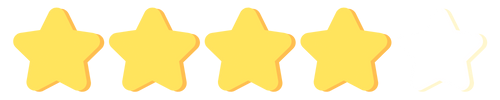
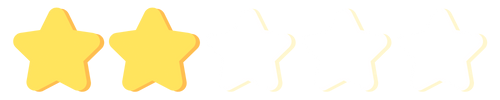
main_test success

Changed region(s): [[0.39, 0.06, 0.81, 0.93]]

diff --git a/main_test.py b/main_test.py
@@ -14,9 +14,16 @@ pygame.init()
 pygame.display.set_caption("main_test")
 screen = pygame.display.set_mode((1280, 800))
 #game variable               
-t1 = [0, 4.4, 9.1, 11.3, 13.7, 16, 18.3, 22.9, 25.1, 28.8, 31.1, 37.9, 38.9, 41.5, 46.1, 47.3, 48.5, 51.1, 52.9, 55.2, 57.6, 59.8, 64.56, 66.8, 70.35, 71.4, 72.6, 73.8, 76, 78.5, 82.9, 84.2, 85.5, 86.6, 90, 94, 111]
-t2 = [0, 3.2, 6.5, 9.8, 13.1, 16.32, 17.9, 19.6, 21.2, 24.5, 26.14, 29.4, 31, 32.6, 34.3, 37.65, 39.25, 42.55, 44.2, 47.45, 50.74, 52.3, 54.7, 57.23, 58.9, 60.5, 62.2, 63.7, 67, 68.6, 70.26, 71.98, 73.56, 75.2, 76.7, 80.2, 92]
-t3 = [0, 10.77, 12.15, 13.35, 14.86, 16.12, 17.5, 19.9, 22.84, 24.11, 25.28, 26.8, 28.02, 29.266, 30.783, 32.19, 33.498, 34.856, 36.157, 37.525, 40.746, 42.771, 44.132, 45.4, 46.4, 48.172, 49.47, 50.7, 52.03, 53.429, 54.8, 57.45, 58.8, 60.043, 61.37, 64.78, 78]
+t1 = [0, 4.4, 9.1, 11.3, 13.7, 16, 18.3, 22.9, 25.1, 28.8, 31.1, 37.9, 38.9, 41.5, 46.1, 47.3, 48.5, 51.1, 52.9, 55.2, 57.6, 59.8, 64.56, 66.8, 70.35, 71.4, 72.6, 73.8, 76, 78.5, 82.9, 84.2, 85.5, 86.6, 90, 94, 108]
+t2 = [0, 3.2, 6.5, 9.8, 13.1, 16.32, 17.9, 19.6, 21.2, 24.5, 26.14, 29.4, 31, 32.6, 34.3, 37.65, 39.25, 42.55, 44.2, 47.45, 50.74, 52.3, 54.7, 57.23, 58.9, 60.5, 62.2, 63.7, 67, 68.6, 70.26, 71.98, 73.56, 75.2, 76.7, 80.2, 89]
+t3 = [0, 10.77, 12.15, 13.35, 14.86, 16.12, 17.5, 19.9, 22.84, 24.11, 25.28, 26.8, 28.02, 29.266, 30.783, 32.19, 33.498, 34.856, 36.157, 37.525, 40.746, 42.771, 44.132, 45.4, 46.4, 48.172, 49.47, 50.7, 52.03, 53.429, 54.8, 57.45, 58.8, 60.043, 61.37, 64.78, 75]
+c = 'c'
+d = 'd'
+n = 'n'
+b1 = [n, c, d, c, d, d, c, d, c, d, d, c, c, d, d, d, d, c, c, c, d, c, d, c, d, d, d, c, c, d, c, c, d, d, c, c]
+b2 = [n, d, c, d, c, d, d, c, c, d, c, d, c, d, c, d, d, c, c, c, d, c, d, c, d, d, d, c, c, d, c, c, d, d, c, c]
+b3 = [n, c, c, c, d, d, d, c, d, d, d, d, c, d, c, d, d, c, d, d, c, c, d, d, d, c, d, d, c, d, c, d, c, d, c, d]
+
 #image load
 gamePageBg=pygame.image.load(gamePagePath+"/game_page.png")
 dog = pygame.image.load(gamePagePath+"/dog.png")
@@ -60,54 +67,48 @@ def _showCloud(x,y):
         #text=font.render(str(x),True,(0,0,0))
         #screen.blit(text, (400,300))
 
-def _callCat(n,t,countPlaySFX,presentTicks):
+def _call(n,b,t,countPlaySFX,presentTicks):
     count = 0
-    if presentTicks >= t and countPlaySFX<n:
+    if presentTicks >= t and countPlaySFX<n and b == 'c':
         catSound.play()
-        count+=1   
-    return count
-
-
-def _callDog(n,t,countPlaySFX,presentTicks):
-    count = 0
-    if presentTicks >= t and countPlaySFX<n:
+        count+=1
+    elif presentTicks >= t and countPlaySFX<n and b == 'd':
         dogSound.play()
         count+=1   
     return count
 
-def _checkCat(countPlaySFX,recentSoundTime,key,presentTicks,a):
+def _check(countPlaySFX,b,recentSoundTime,key,presentTicks,a):
     score = 0
-    if presentTicks>=recentSoundTime and presentTicks<=recentSoundTime+1 and a[countPlaySFX]==0:
-        if key == "f":
-            score+=50
-            hitSound.play()
-            a[countPlaySFX]=1
-        elif key == "j":
-            missSound.play()
-            a[countPlaySFX]=1
-    elif presentTicks>recentSoundTime+1 and a[countPlaySFX]==0:
-            missSound.play()
-            a[countPlaySFX]=1
-    elif a[countPlaySFX]==0 and a[countPlaySFX-1]==1 and (key=="f" or key=="j"):
-            missSound.play()
-    return score
-
-def _checkDog(countPlaySFX,recentSoundTime,key,presentTicks,a):
-    score = 0
-    if presentTicks>=recentSoundTime and presentTicks<=recentSoundTime+1 and a[countPlaySFX]==0:
-        if key == "j":
-            score+=50
-            hitSound.play()
-            a[countPlaySFX]=1
-        elif key == "f":
-            missSound.play()
-            a[countPlaySFX]=1
-    elif presentTicks>recentSoundTime+1 and a[countPlaySFX]==0:
-            missSound.play()
-            a[countPlaySFX]=1
-    elif a[countPlaySFX]==0 and a[countPlaySFX-1]==1 and (key=="f" or key=="j"):
-            missSound.play()
-    return score
+    if b == "c":
+        if presentTicks>=recentSoundTime and presentTicks<=recentSoundTime+1 and a[countPlaySFX]==0:
+            if key == "f":
+                score+=50
+                hitSound.play()
+                a[countPlaySFX]=1
+            elif key == "j":
+                missSound.play()
+                a[countPlaySFX]=1
+        elif presentTicks>recentSoundTime+1 and a[countPlaySFX]==0:
+                missSound.play()
+                a[countPlaySFX]=1
+        elif a[countPlaySFX]==0 and a[countPlaySFX-1]==1 and (key=="f" or key=="j"):
+                missSound.play()
+        return score
+    elif b == "d":
+        if presentTicks>=recentSoundTime and presentTicks<=recentSoundTime+1 and a[countPlaySFX]==0:
+            if key == "j":
+                score+=50
+                hitSound.play()
+                a[countPlaySFX]=1
+            elif key == "f":
+                missSound.play()
+                a[countPlaySFX]=1
+        elif presentTicks>recentSoundTime+1 and a[countPlaySFX]==0:
+                missSound.play()
+                a[countPlaySFX]=1
+        elif a[countPlaySFX]==0 and a[countPlaySFX-1]==1 and (key=="f" or key=="j"):
+                missSound.play()
+        return score
 
 def _pauseTime():
     pausePageBg=pygame.image.load(mainPath+"/olavan_asset/pause_page/pause_page.png")
@@ -141,7 +142,7 @@ def _pauseTime():
         screen.blit(restart,(425,391))
         pygame.display.update()
 
-def _play(t,songName):
+def _play(t,b,songName):
     #array for counting the beat
     array.array("i")                
     a = array.array("i",(0 for i in range(0,36)))
@@ -194,110 +195,110 @@ def _play(t,songName):
         presentTicks=(pygame.time.get_ticks()-startTicks-pauseTime)/1000 
         
         if a[1] == 0:       
-            countPlaySFX += _callCat(1,t[1],countPlaySFX,presentTicks)
-            scoreValue += _checkCat(1,t[1],key,presentTicks,a)
+            countPlaySFX += _call(1,b[1],t[1],countPlaySFX,presentTicks)
+            scoreValue += _check(1,b[1],t[1],key,presentTicks,a)
         elif a[2] == 0:
-            countPlaySFX += _callCat(2,t[2],countPlaySFX,presentTicks)
-            scoreValue += _checkCat(2,t[2],key,presentTicks,a)
+            countPlaySFX += _call(2,b[2],t[2],countPlaySFX,presentTicks)
+            scoreValue += _check(2,b[2],t[2],key,presentTicks,a)
         elif a[3] == 0:
-            countPlaySFX += _callCat(3,t[3],countPlaySFX,presentTicks)
-            scoreValue += _checkCat(3,t[3],key,presentTicks,a) 
+            countPlaySFX += _call(3,b[3],t[3],countPlaySFX,presentTicks)
+            scoreValue += _check(3,b[3],t[3],key,presentTicks,a) 
         elif a[4] == 0:
-            countPlaySFX += _callDog(4,t[4],countPlaySFX,presentTicks)
-            scoreValue += _checkDog(4,t[4],key,presentTicks,a)
+            countPlaySFX += _call(4,b[4],t[4],countPlaySFX,presentTicks)
+            scoreValue += _check(4,b[4],t[4],key,presentTicks,a)
         elif a[5] == 0:
-            countPlaySFX += _callDog(5,t[5],countPlaySFX,presentTicks)
-            scoreValue += _checkDog(5,t[5],key,presentTicks,a)
+            countPlaySFX += _call(5,b[5],t[5],countPlaySFX,presentTicks)
+            scoreValue += _check(5,b[5],t[5],key,presentTicks,a)
         elif a[6] == 0:
-            countPlaySFX += _callDog(6,t[6],countPlaySFX,presentTicks)
-            scoreValue += _checkDog(6,t[6],key,presentTicks,a)
+            countPlaySFX += _call(6,b[6],t[6],countPlaySFX,presentTicks)
+            scoreValue += _check(6,b[6],t[6],key,presentTicks,a)
         elif a[7] == 0:
-            countPlaySFX += _callCat(7,t[7],countPlaySFX,presentTicks)
-            scoreValue += _checkCat(7,t[7],key,presentTicks,a)
+            countPlaySFX += _call(7,b[7],t[7],countPlaySFX,presentTicks)
+            scoreValue += _check(7,b[7],t[7],key,presentTicks,a)
         elif a[8] == 0:
-            countPlaySFX += _callDog(8,t[8],countPlaySFX,presentTicks)
-            scoreValue += _checkDog(8,t[8],key,presentTicks,a)
+            countPlaySFX += _call(8,b[8],t[8],countPlaySFX,presentTicks)
+            scoreValue += _check(8,b[8],t[8],key,presentTicks,a)
         elif a[9] == 0:
-            countPlaySFX += _callDog(9,t[9],countPlaySFX,presentTicks)
-            scoreValue += _checkDog(9,t[9],key,presentTicks,a)
+            countPlaySFX += _call(9,b[9],t[9],countPlaySFX,presentTicks)
+            scoreValue += _check(9,b[9],t[9],key,presentTicks,a)
         elif a[10] == 0:
-            countPlaySFX += _callDog(10,t[10],countPlaySFX,presentTicks)
-            scoreValue += _checkDog(10,t[10],key,presentTicks,a)
+            countPlaySFX += _call(10,b[10],t[10],countPlaySFX,presentTicks)
+            scoreValue += _check(10,b[10],t[10],key,presentTicks,a)
         elif a[11] == 0:
-            countPlaySFX += _callDog(11,t[11],countPlaySFX,presentTicks)
-            scoreValue += _checkDog(11,t[11],key,presentTicks,a)
+            countPlaySFX += _call(11,b[11],t[11],countPlaySFX,presentTicks)
+            scoreValue += _check(11,b[11],t[11],key,presentTicks,a)
         elif a[12] == 0:
-            countPlaySFX += _callCat(12,t[12],countPlaySFX,presentTicks)
-            scoreValue += _checkCat(12,t[12],key,presentTicks,a)
+            countPlaySFX += _call(12,b[12],t[12],countPlaySFX,presentTicks)
+            scoreValue += _check(12,b[12],t[12],key,presentTicks,a)
         elif a[13] == 0:
-            countPlaySFX += _callDog(13,t[13],countPlaySFX,presentTicks)
-            scoreValue += _checkDog(13,t[13],key,presentTicks,a)
+            countPlaySFX += _call(13,b[13],t[13],countPlaySFX,presentTicks)
+            scoreValue += _check(13,b[13],t[13],key,presentTicks,a)
         elif a[14] == 0:
-            countPlaySFX += _callCat(14,t[14],countPlaySFX,presentTicks)
-            scoreValue += _checkCat(14,t[14],key,presentTicks,a)
+            countPlaySFX += _call(14,b[14],t[14],countPlaySFX,presentTicks)
+            scoreValue += _check(14,b[14],t[14],key,presentTicks,a)
         elif a[15] == 0:
-            countPlaySFX += _callDog(15,t[15],countPlaySFX,presentTicks)
-            scoreValue += _checkDog(15,t[15],key,presentTicks,a)
+            countPlaySFX += _call(15,b[15],t[15],countPlaySFX,presentTicks)
+            scoreValue += _check(15,b[15],t[15],key,presentTicks,a)
         elif a[16] == 0:
-            countPlaySFX += _callDog(16,t[16],countPlaySFX,presentTicks)
-            scoreValue += _checkDog(16,t[16],key,presentTicks,a)
+            countPlaySFX += _call(16,b[16],t[16],countPlaySFX,presentTicks)
+            scoreValue += _check(16,b[16],t[16],key,presentTicks,a)
         elif a[17] == 0:
-            countPlaySFX += _callCat(17,t[17],countPlaySFX,presentTicks)
-            scoreValue += _checkCat(17,t[17],key,presentTicks,a)
+            countPlaySFX += _call(17,b[17],t[17],countPlaySFX,presentTicks)
+            scoreValue += _check(17,b[17],t[17],key,presentTicks,a)
         elif a[18] == 0:
-            countPlaySFX += _callDog(18,t[18],countPlaySFX,presentTicks)
-            scoreValue += _checkDog(18,t[18],key,presentTicks,a)
+            countPlaySFX += _call(18,b[18],t[18],countPlaySFX,presentTicks)
+            scoreValue += _check(18,b[18],t[18],key,presentTicks,a)
         elif a[19] == 0:
-            countPlaySFX += _callDog(19,t[19],countPlaySFX,presentTicks)
-            scoreValue += _checkDog(19,t[19],key,presentTicks,a)
+            countPlaySFX += _call(19,b[19],t[19],countPlaySFX,presentTicks)
+            scoreValue += _check(19,b[19],t[19],key,presentTicks,a)
         elif a[20] == 0:
-            countPlaySFX += _callCat(20,t[20],countPlaySFX,presentTicks)
-            scoreValue += _checkCat(20,t[20],key,presentTicks,a)
+            countPlaySFX += _call(20,b[20],t[20],countPlaySFX,presentTicks)
+            scoreValue += _check(20,b[20],t[20],key,presentTicks,a)
         elif a[21] == 0:
-            countPlaySFX += _callCat(21,t[21],countPlaySFX,presentTicks)
-            scoreValue += _checkCat(21,t[21],key,presentTicks,a)
+            countPlaySFX += _call(21,b[21],t[21],countPlaySFX,presentTicks)
+            scoreValue += _check(21,b[21],t[21],key,presentTicks,a)
         elif a[22] == 0:
-            countPlaySFX += _callDog(22,t[22],countPlaySFX,presentTicks)
-            scoreValue += _checkDog(22,t[22],key,presentTicks,a)
+            countPlaySFX += _call(22,b[22],t[22],countPlaySFX,presentTicks)
+            scoreValue += _check(22,b[22],t[22],key,presentTicks,a)
         elif a[23] == 0:
-            countPlaySFX += _callDog(23,t[23],countPlaySFX,presentTicks)
-            scoreValue += _checkDog(23,t[23],key,presentTicks,a)
+            countPlaySFX += _call(23,b[23],t[23],countPlaySFX,presentTicks)
+            scoreValue += _check(23,b[23],t[23],key,presentTicks,a)
         elif a[24] == 0:
-            countPlaySFX += _callDog(24,t[24],countPlaySFX,presentTicks)
-            scoreValue += _checkDog(24,t[24],key,presentTicks,a)
+            countPlaySFX += _call(24,b[24],t[24],countPlaySFX,presentTicks)
+            scoreValue += _check(24,b[24],t[24],key,presentTicks,a)
         elif a[25] == 0:
-            countPlaySFX += _callCat(25,t[25],countPlaySFX,presentTicks)
-            scoreValue += _checkCat(25,t[25],key,presentTicks,a)
+            countPlaySFX += _call(25,b[25],t[25],countPlaySFX,presentTicks)
+            scoreValue += _check(25,b[25],t[25],key,presentTicks,a)
         elif a[26] == 0:
-            countPlaySFX += _callDog(26,t[26],countPlaySFX,presentTicks)
-            scoreValue += _checkDog(26,t[26],key,presentTicks,a)
+            countPlaySFX += _call(26,b[26],t[26],countPlaySFX,presentTicks)
+            scoreValue += _check(26,b[26],t[26],key,presentTicks,a)
         elif a[27] == 0:
-            countPlaySFX += _callDog(27,t[27],countPlaySFX,presentTicks)
-            scoreValue += _checkDog(27,t[27],key,presentTicks,a)
+            countPlaySFX += _call(27,b[27],t[27],countPlaySFX,presentTicks)
+            scoreValue += _check(27,b[27],t[27],key,presentTicks,a)
         elif a[28] == 0:
-            countPlaySFX += _callCat(28,t[28],countPlaySFX,presentTicks)
-            scoreValue += _checkCat(28,t[28],key,presentTicks,a)
+            countPlaySFX += _call(28,b[28],t[28],countPlaySFX,presentTicks)
+            scoreValue += _check(28,b[28],t[28],key,presentTicks,a)
         elif a[29] == 0:
-            countPlaySFX += _callDog(29,t[29],countPlaySFX,presentTicks)
-            scoreValue += _checkDog(29,t[29],key,presentTicks,a)
+            countPlaySFX += _call(29,b[29],t[29],countPlaySFX,presentTicks)
+            scoreValue += _check(29,b[29],t[29],key,presentTicks,a)
         elif a[30] == 0:
-            countPlaySFX += _callCat(30,t[30],countPlaySFX,presentTicks)
-            scoreValue += _checkCat(30,t[30],key,presentTicks,a)
+            countPlaySFX += _call(30,b[30],t[30],countPlaySFX,presentTicks)
+            scoreValue += _check(30,b[30],t[30],key,presentTicks,a)
         elif a[31] == 0:
-            countPlaySFX += _callDog(31,t[31],countPlaySFX,presentTicks)
-            scoreValue += _checkDog(31,t[31],key,presentTicks,a)
+            countPlaySFX += _call(31,b[31],t[31],countPlaySFX,presentTicks)
+            scoreValue += _check(31,b[31],t[31],key,presentTicks,a)
         elif a[32] == 0:
-            countPlaySFX += _callCat(32,t[32],countPlaySFX,presentTicks)
-            scoreValue += _checkCat(32,t[32],key,presentTicks,a)
+            countPlaySFX += _call(32,b[32],t[32],countPlaySFX,presentTicks)
+            scoreValue += _check(32,b[32],t[32],key,presentTicks,a)
         elif a[33] == 0:
-            countPlaySFX += _callDog(33,t[33],countPlaySFX,presentTicks)
-            scoreValue += _checkDog(33,t[33],key,presentTicks,a)
+            countPlaySFX += _call(33,b[33],t[33],countPlaySFX,presentTicks)
+            scoreValue += _check(33,b[33],t[33],key,presentTicks,a)
         elif a[34] == 0:
-            countPlaySFX += _callCat(34,t[34],countPlaySFX,presentTicks)
-            scoreValue += _checkCat(34,t[34],key,presentTicks,a)
+            countPlaySFX += _call(34,b[34],t[34],countPlaySFX,presentTicks)
+            scoreValue += _check(34,b[34],t[34],key,presentTicks,a)
         elif a[35] == 0:
-            countPlaySFX += _callDog(35,t[35],countPlaySFX,presentTicks)
-            scoreValue += _checkDog(35,t[35],key,presentTicks,a)
+            countPlaySFX += _call(35,b[35],t[35],countPlaySFX,presentTicks)
+            scoreValue += _check(35,b[35],t[35],key,presentTicks,a)
         
         #preferences
         screen.blit(gamePageBg,(0,0))
@@ -331,6 +332,39 @@ def _play(t,songName):
                 f.write(str(highestScore))
             return scoreValue
 
+def calculatePoint(endGameScore):
+    if endGameScore == 0:
+        return 0
+    elif endGameScore <= 350:
+        return 1
+    elif endGameScore <= 700:
+        return 2
+    elif endGameScore <= 1050:
+        return 3
+    elif endGameScore <= 1400:
+        return 4
+    else:
+        return 5
+        
+#totalscorepage
+def total_score_page(score,songName):
+    totalScorePagePath = mainPath + "/olavan_asset/total_score_page"
+    bg = pygame.image.load(totalScorePagePath+"/bg.png") 
+    collectButton = pygame.image.load(totalScorePagePath+"/Collect_button.png")
+    titleGetpoint = pygame.image.load(totalScorePagePath+"/getPoint.png")
+    star = pygame.image.load(totalScorePagePath+"/"+str(score)+".png")
+
+    while True:
+        for event in pygame.event.get():
+            if event.type == pygame.QUIT:
+                quit()
+            
+        screen.blit(bg,(0,0))
+        screen.blit(star,(390,434))
+        screen.blit(collectButton, (512, 576))
+        screen.blit(titleGetpoint, (380, 370))
+        _showText(songName,562,260)
+        pygame.display.update()
 
 def main_page():
     while True:
@@ -351,12 +385,13 @@ def main():
     menu = main_page()
     if menu == 1:
         songName = "jinglebell"
-        endGamePoint = _play(t1,songName)
+        endGamePoint = _play(t1,b1,songName)     
     elif menu == 2:
         songName = "shutdown"
-        endGamePoint = _play(t2,songName)
+        endGamePoint = _play(t2,b2,songName)
     elif menu == 3:
         songName = "kerntarn"
-        endGamePoint = _play(t3,songName)
+        endGamePoint = _play(t3,b3,songName)
+    total_score_page(calculatePoint(endGamePoint),songName)
 
 main()

diff --git a/monthida_code/totalscorePage.py b/monthida_code/totalscorePage.py
@@ -16,12 +16,12 @@ pygame.display.set_caption("OLAVAN")
 bg = pygame.image.load(homePagePath+"/bg.png") 
 collectButton = pygame.image.load(homePagePath+"/Collect_button.png")
 titleGetpoint = pygame.image.load(homePagePath+"/getPoint.png")
-star5 = pygame.image.load(homePagePath+"/1.png") # 5 point
-star4 = pygame.image.load(homePagePath+"/2.png") # 4 point 
+star5 = pygame.image.load(homePagePath+"/5.png") # 5 point
+star4 = pygame.image.load(homePagePath+"/4.png") # 4 point 
 star3 = pygame.image.load(homePagePath+"/3.png") # 3 point
-star2 = pygame.image.load(homePagePath+"/4.png") # 2 point
-star1 = pygame.image.load(homePagePath+"/5.png") # 1 point
-star0 = pygame.image.load(homePagePath+"/6.png") # 0 point
+star2 = pygame.image.load(homePagePath+"/2.png") # 2 point
+star1 = pygame.image.load(homePagePath+"/1.png") # 1 point
+star0 = pygame.image.load(homePagePath+"/0.png") # 0 point
 
 #show star
 
